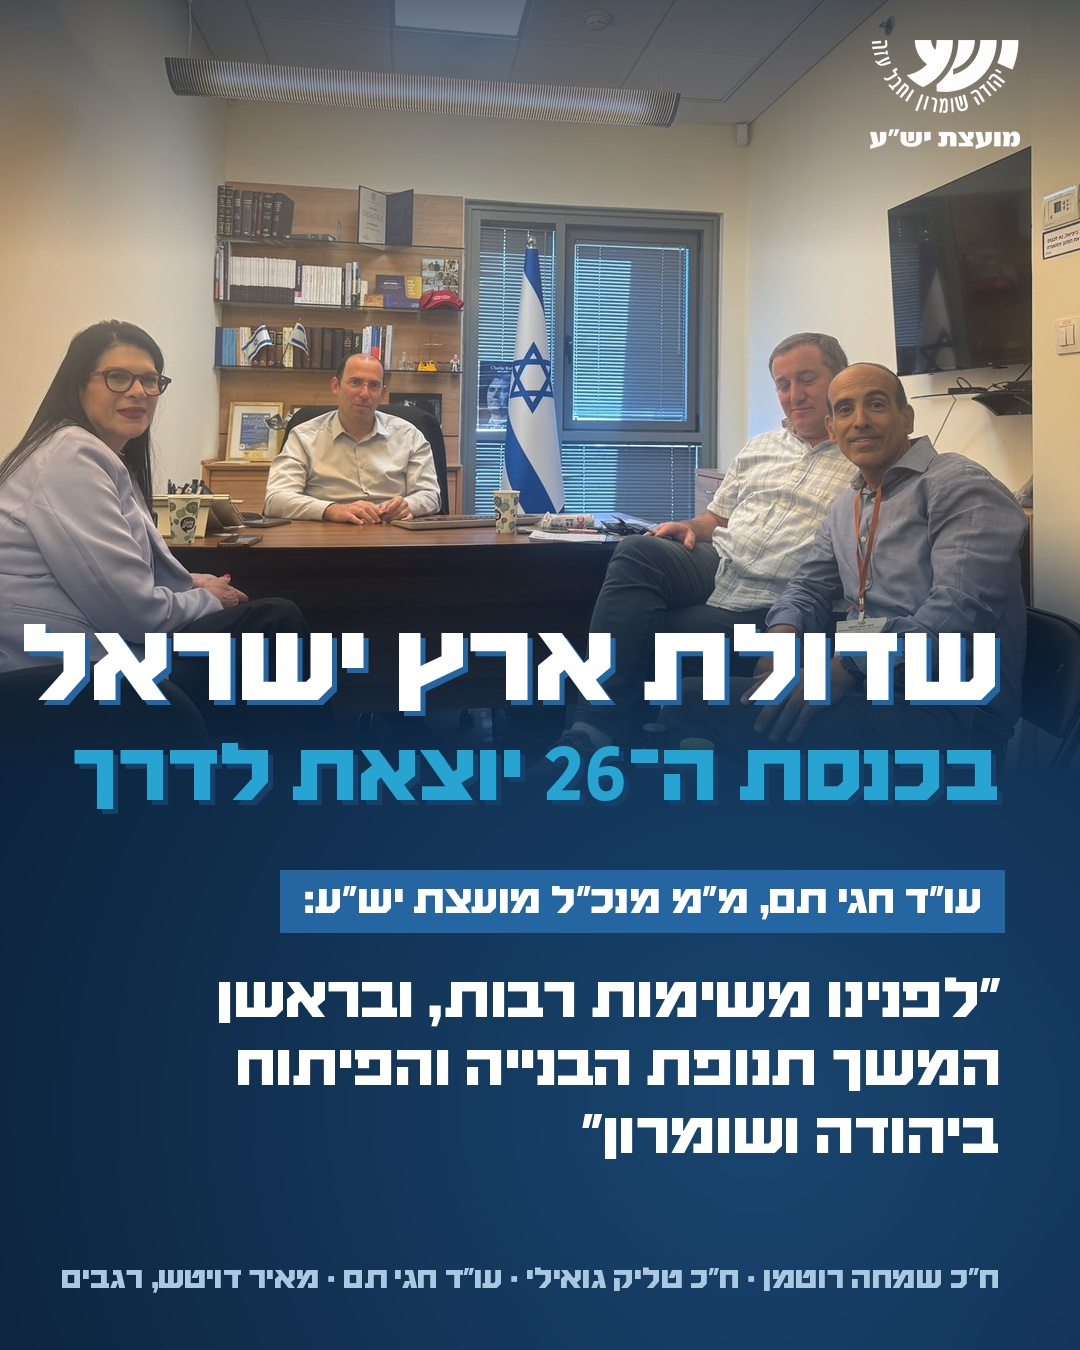
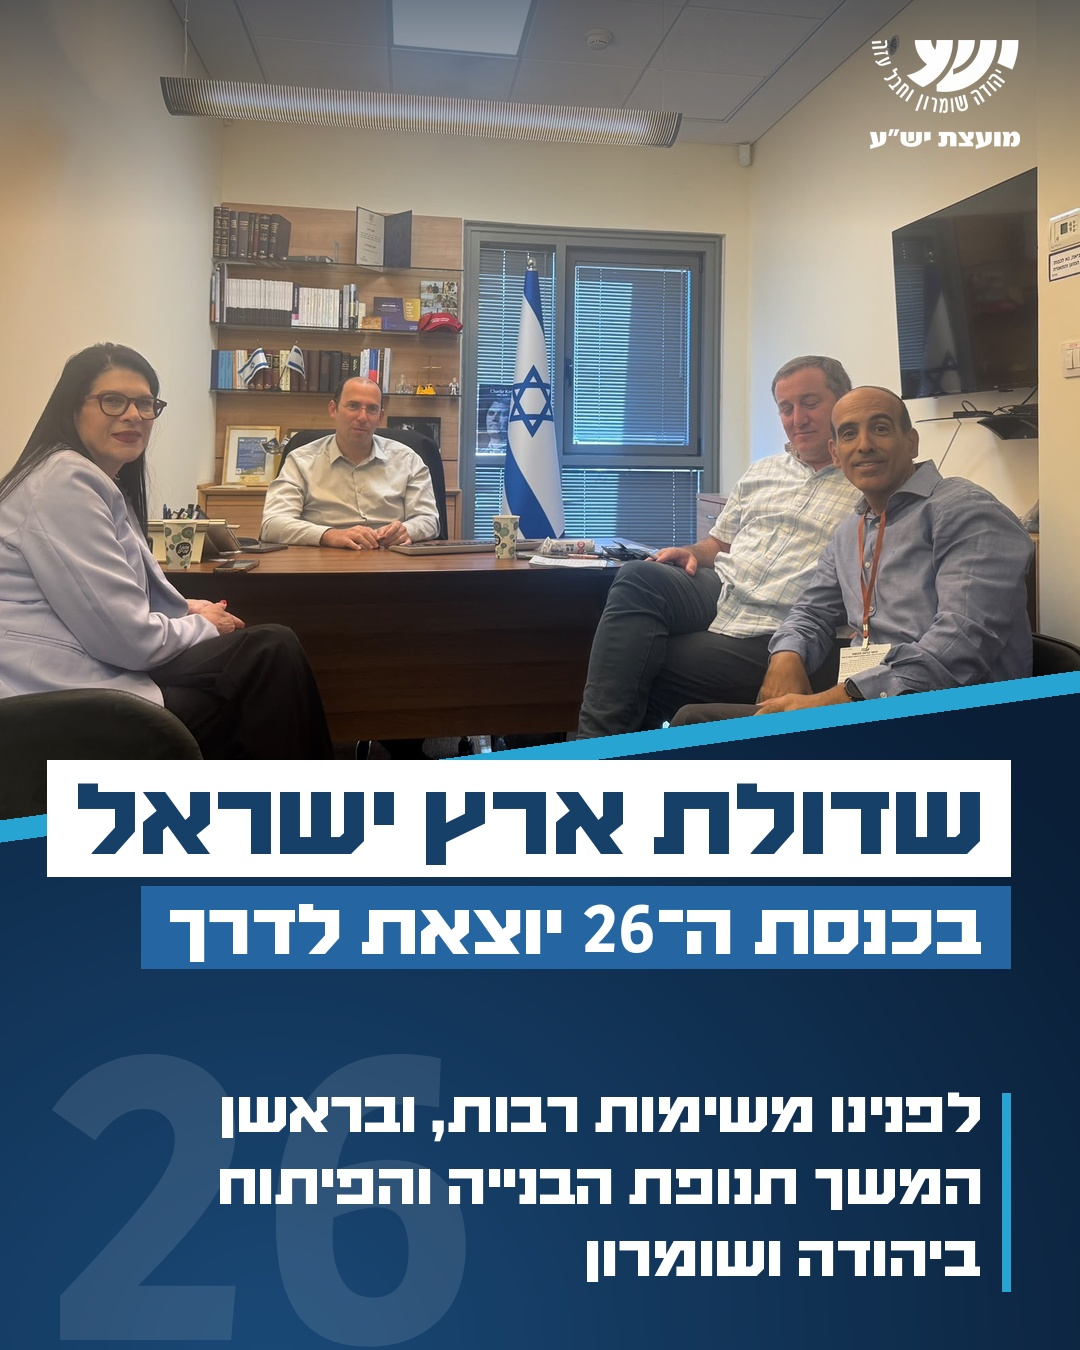
Yesha caucus post v2: less generic layout, quote only
Claude-Session: https://claude.ai/code/session_01RS3QK6pAd3YhyAuXZSJjH1

diff --git a/content-kit/yesha/2026-11-post-eretz-israel-caucus/make.py b/content-kit/yesha/2026-11-post-eretz-israel-caucus/make.py
@@ -1,42 +1,40 @@
-"""Yesha IG post 1080x1350: Eretz Israel Caucus (26th Knesset) kickoff. Photo top, navy body, Haim headline with blue offset, exact Hagai Tam quote. White logo, no '!'."""
+"""Yesha IG post 1080x1350 v2: full-bleed photo, stacked white headline blocks, giant '26', quote without marks/label. White logo, no '!'."""
 import os
 from PIL import Image, ImageDraw, ImageFont, ImageOps, ImageFilter
 HERE = os.path.dirname(os.path.abspath(__file__))
 KB = HERE + '/../../fonts/HaimClassicv2FM-Bold.ttf'; SEC = '/tmp/claude-0/-home-user-The-tur/1a5819ee-0cc0-5045-b086-4a8a80216453/scratchpad/shalev/fonts/SecularOne.ttf'
 LOGO = HERE + '/../../clients/yesha/logo_white.png'
-W, H = 1080, 1350; NAVY, BLUE, LB, WHITE = (23, 64, 104), (37, 102, 162), (39, 164, 209), (255, 255, 255); DK = (12, 32, 56)
+W, H = 1080, 1350; NAVY, BLUE, LB, WHITE = (23, 64, 104), (37, 102, 162), (39, 164, 209), (255, 255, 255); DK = (10, 30, 54)
 def F(p, s): return ImageFont.truetype(p, s, layout_engine=ImageFont.Layout.RAQM)
-im = Image.new('RGBA', (W, H), DK + (255,))
-# navy radial body
+PH = 820
+ph = ImageOps.fit(Image.open(HERE + '/source-photo.jpg').convert('RGB'), (W, PH), Image.LANCZOS, centering=(.5, .7))
 bg = Image.new('RGB', (W, H), DK); bd = ImageDraw.Draw(bg)
-for r in range(900, 0, -6): bd.ellipse((W * .7 - r, H * .82 - r, W * .7 + r, H * .82 + r), fill=tuple(int(DK[i] + (BLUE[i] - DK[i]) * (1 - r / 900) * .55) for i in range(3)))
-im.paste(bg.filter(ImageFilter.GaussianBlur(40)))
-PH = 780
-ph = ImageOps.fit(Image.open(HERE + '/source-photo.jpg').convert('RGB'), (W, PH), Image.LANCZOS, centering=(.5, .62))
-m = Image.new('L', (W, PH), 255); md = ImageDraw.Draw(m)
-for y in range(PH - 260, PH): md.line((0, y, W, y), fill=int(255 * (PH - y) / 260))
+for r in range(1000, 0, -8): bd.ellipse((W * .25 - r, H - r * .9, W * .25 + r, H + r * .9), fill=tuple(int(DK[i] + (BLUE[i] - DK[i]) * (1 - r / 1000) * .6) for i in range(3)))
+im = bg.filter(ImageFilter.GaussianBlur(30)).convert('RGBA')
+m = Image.new('L', (W, PH), 0); ImageDraw.Draw(m).polygon([(0, 0), (W, 0), (W, PH - 150), (0, PH)], fill=255)
 im.paste(ph, (0, 0), m)
-top = Image.new('RGBA', (W, 260)); td = ImageDraw.Draw(top)
-for y in range(260): td.line((0, y, W, y), fill=DK + (int(170 * (1 - y / 260)),))
+top = Image.new('RGBA', (W, 230)); td = ImageDraw.Draw(top)
+for y in range(230): td.line((0, y, W, y), fill=DK + (int(150 * (1 - y / 230)),))
 im.alpha_composite(top)
+band = Image.new('RGBA', (W, H)); bd2 = ImageDraw.Draw(band)
+bd2.polygon([(0, PH), (W, PH - 150), (W, PH - 128), (0, PH + 22)], fill=LB + (255,))
+im.alpha_composite(band)
+wm = Image.new('RGBA', (W, H)); ImageDraw.Draw(wm).text((40, 1340), '26', font=F(SEC, 420), fill=(255, 255, 255, 26), anchor='ls'); im.alpha_composite(wm)
+d = ImageDraw.Draw(im)
 lg = Image.open(LOGO).convert('RGBA'); lg = lg.crop(lg.getchannel('A').getbbox()); lg = lg.resize((150, int(150 * lg.height / lg.width)), Image.LANCZOS)
-im.alpha_composite(lg, (W - 60 - lg.width, 40))
-d = ImageDraw.Draw(im); R = W - 80
-def runs(y, parts, fill=WHITE, shadow=BLUE, off=5):
-    # parts: list of (text, font) in reading order (RTL), drawn right to left
-    x = R
+im.alpha_composite(lg, (W - 60 - lg.width, 40)); d = ImageDraw.Draw(im)
+R = W - 70
+def block(y, parts, bg, fg, pad=26, h=None):
+    fs = [f for _, f in parts]; tw = sum(d.textlength(t, font=f, direction='rtl') for t, f in parts); hh = h or int(fs[0].size * 1.12)
+    d.rectangle((R - tw - pad * 2, y, R, y + hh), fill=bg); x = R - pad
     for t, f in parts:
-        w = d.textlength(t, font=f, direction='rtl')
-        d.text((x + off, y + off), t, font=f, fill=shadow, anchor='rs', direction='rtl'); d.text((x, y), t, font=f, fill=fill, anchor='rs', direction='rtl'); x -= w
-y0 = 700
-fh = F(KB, 112); runs(y0, [('שדולת ארץ ישראל', fh)])
-f2 = F(KB, 84); f2n = F(SEC, 80); runs(y0 + 100, [('בכנסת ה־', f2), ('26', f2n), (' יוצאת לדרך', f2)], fill=LB, shadow=NAVY)
-y = y0 + 170
-lab = 'עו״ד חגי תם, מ״מ מנכ״ל מועצת יש״ע:'; fl = F(KB, 40); lw = d.textlength(lab, font=fl, direction='rtl')
-d.rectangle((R - lw - 40, y, R + 4, y + 62), fill=BLUE); d.text((R - 18, y + 31), lab, font=fl, fill=WHITE, anchor='rm', direction='rtl')
-fq = F(KB, 58); y += 100
-for i, l in enumerate(['״לפנינו משימות רבות, ובראשן', 'המשך תנופת הבנייה והפיתוח', 'ביהודה ושומרון״']):
-    d.text((R, y + i * 68), l, font=fq, fill=WHITE, anchor='ra', direction='rtl')
-fn = F(KB, 30); names = 'ח״כ שמחה רוטמן · ח״כ טליק גואילי · עו״ד חגי תם · מאיר דויטש, רגבים'
-d.text((R, H - 62), names, font=fn, fill=(170, 200, 225), anchor='rs', direction='rtl')
+        d.text((x, y + hh / 2 + 4), t, font=f, fill=fg, anchor='rm', direction='rtl'); x -= d.textlength(t, font=f, direction='rtl')
+    return y + hh
+y = 760
+y = block(y, [('שדולת ארץ ישראל', F(KB, 104))], WHITE, NAVY)
+y = block(y + 10, [('בכנסת ה־', F(KB, 74)), ('26', F(SEC, 70)), (' יוצאת לדרך', F(KB, 74))], BLUE, WHITE)
+fq = F(KB, 58); yq = 1085
+for i, l in enumerate(['לפנינו משימות רבות, ובראשן', 'המשך תנופת הבנייה והפיתוח', 'ביהודה ושומרון']):
+    d.text((R - 28, yq + i * 72), l, font=fq, fill=WHITE, anchor='ra', direction='rtl')
+d.rectangle((R - 8, yq + 8, R, yq + 3 * 72 - 10), fill=LB)
 im.convert('RGB').save(HERE + '/post.jpg', quality=95); print('ok')
